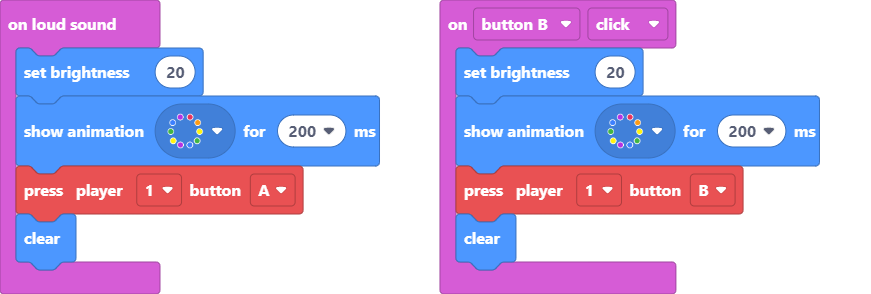
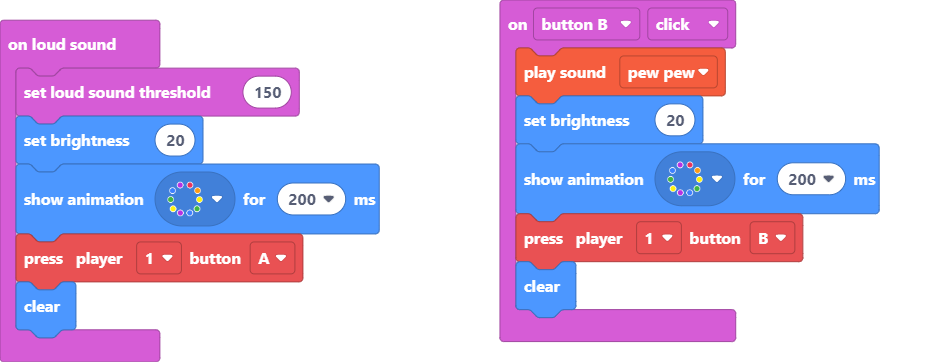
Update main.blocks, main.ts

diff --git a/main.ts b/main.ts
@@ -1,10 +1,12 @@
 input.onLoudSound(function () {
+    input.setLoudSoundThreshold(150)
     light.setBrightness(20)
     light.showAnimation(light.rainbowAnimation, 200)
     makerController.player1.press(ArcadeButton.A)
     light.clear()
 })
 input.buttonB.onEvent(ButtonEvent.Click, function () {
+    music.pewPew.play()
     light.setBrightness(20)
     light.showAnimation(light.rainbowAnimation, 200)
     makerController.player1.press(ArcadeButton.B)
